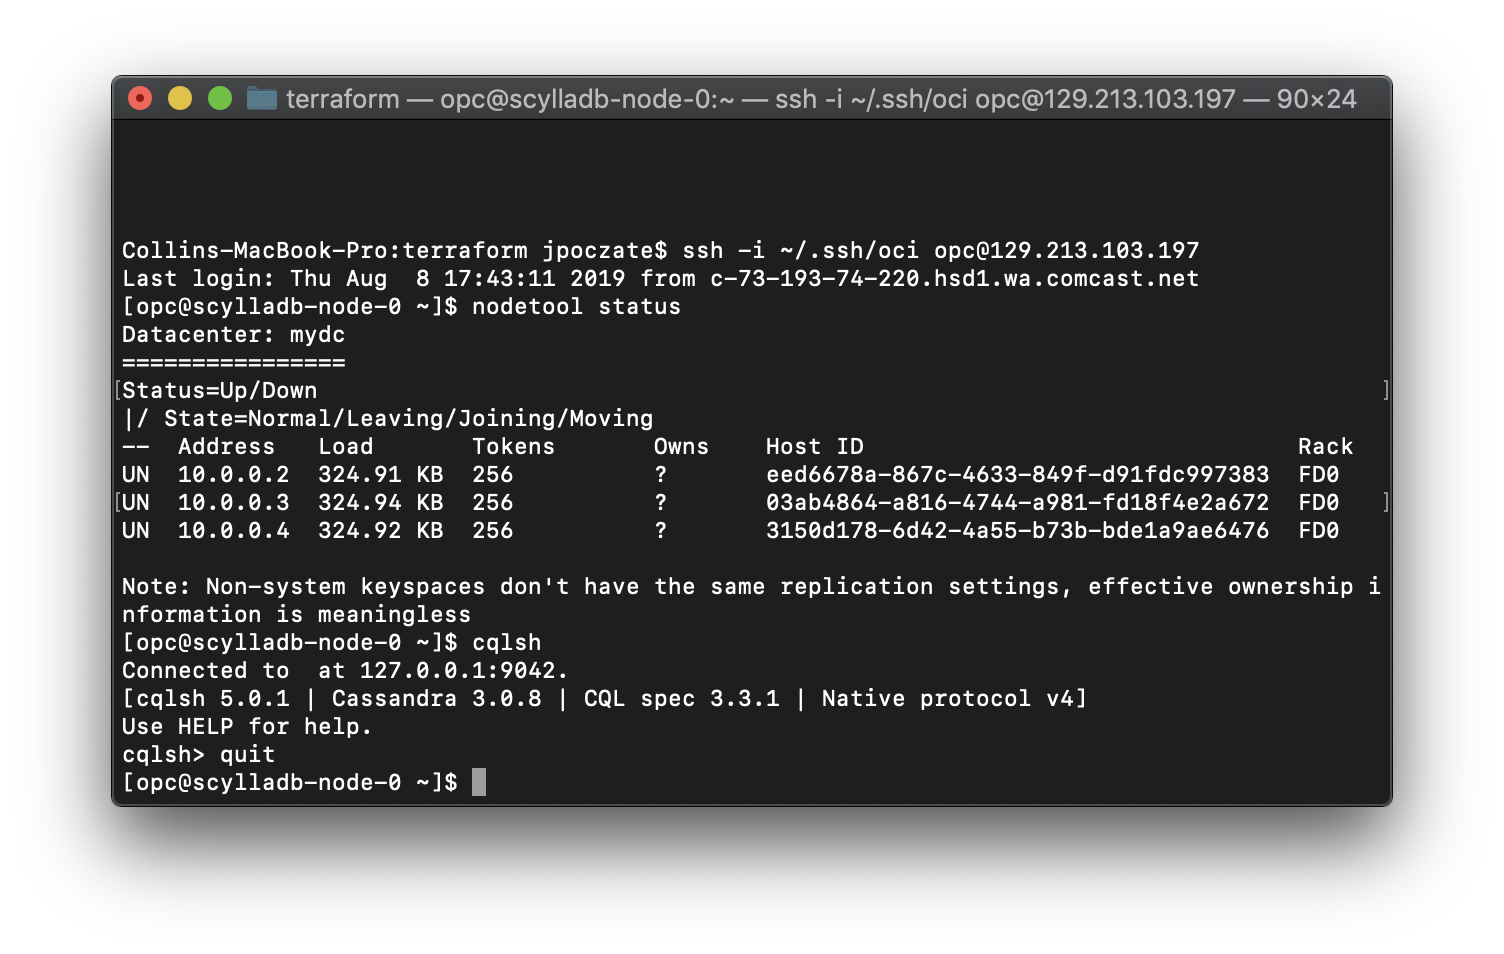
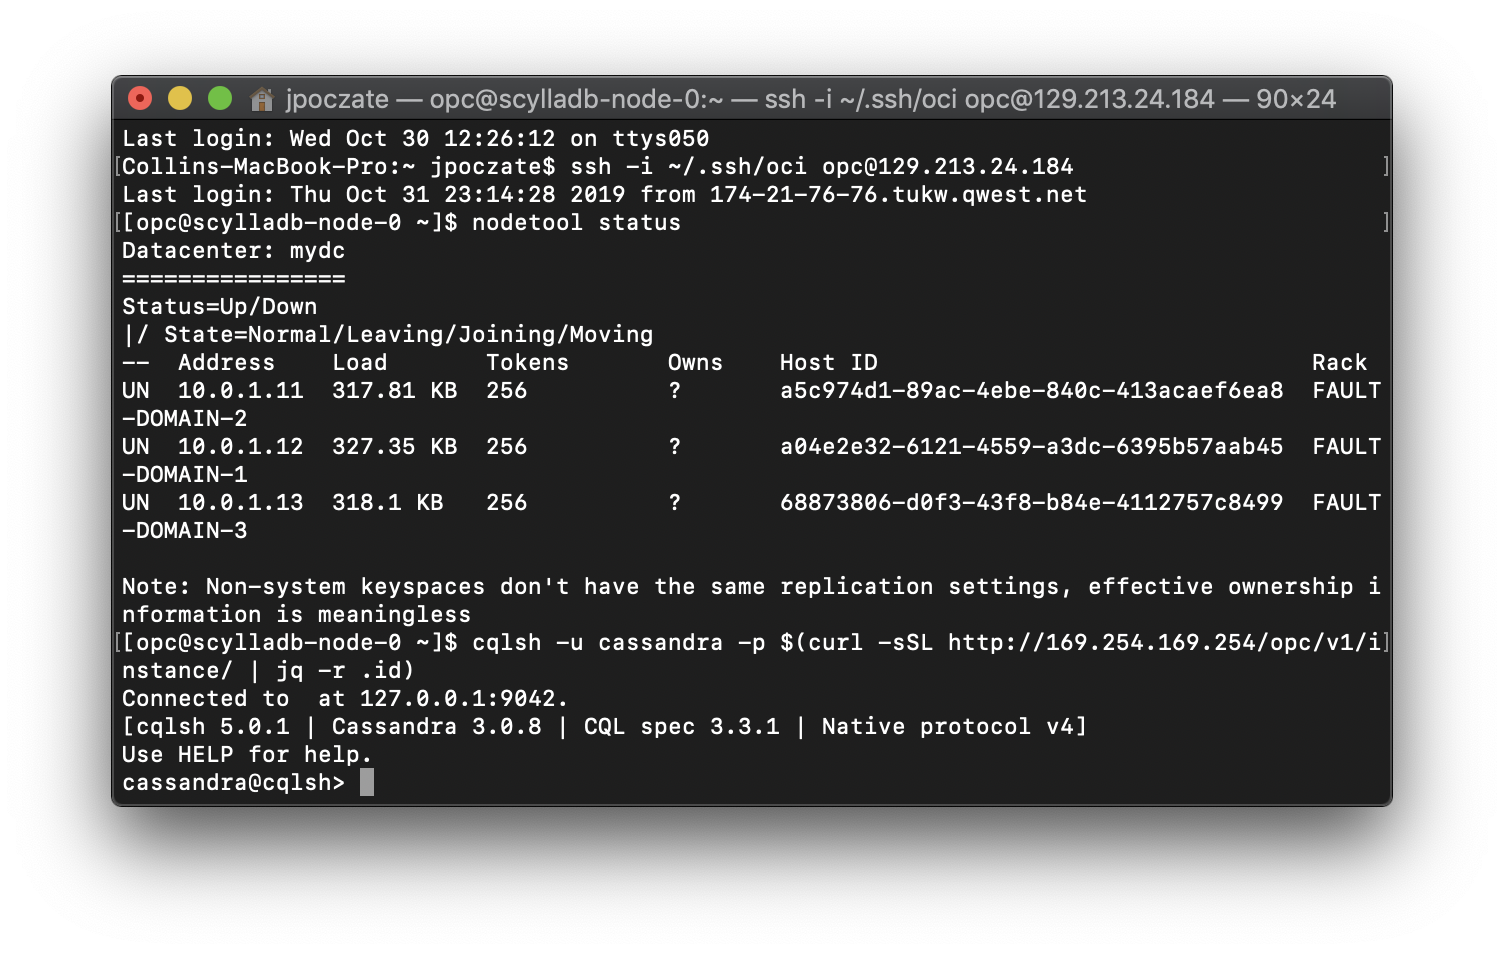
update for auth

diff --git a/README.md b/README.md
@@ -51,9 +51,13 @@ You'll need to enter `yes` when prompted.  The apply should take a few minutes t
 ## Access the Cluster
 When the apply is complete, the infrastructure will be deployed, but cloud-init scripts will still be running.  Those will wrap up asynchronously.  So, it'll be a few more minutes before your cluster is accessible.
 
-The output of `terraform apply` gives you the IPs of all nodes. If you ssh into one of the nodes, you can run `nodetool status` to see the state of all cluster nodes or `cqlsh` to execute CQL commands:
+The output of `terraform apply` gives you the IPs of all nodes. If you ssh into one of the nodes, you can run `nodetool status` to see the state of all cluster nodes or `cqlsh` to execute CQL commands. Authentication and authorization are enabled on the cluster.
+
+The password of the default user `cassandra` is set to the instance ocid of `node[0]` or hostname `scylladb-node-0`, which has the first IP in the list of IPs in the terraform output. This value is retrievable from the terraform logs, console, or the metadata server on that instance. For example you can ssh into `scylladb-node-0` and run the command `cqlsh -u cassandra -p $(curl -sSL http://169.254.169.254/opc/v1/instance/ | jq -r .id)` as shown below.  
 
 ![](./images/05-ssh.png)
+
+You can change this password or create a new superuser and delete the `cassandra` user by following these [instructions](https://docs.scylladb.com/operating-scylla/security/authorization/).
 
 ## Destroy the Deployment
 When you no longer need the deployment, you can run this command to destroy it:
